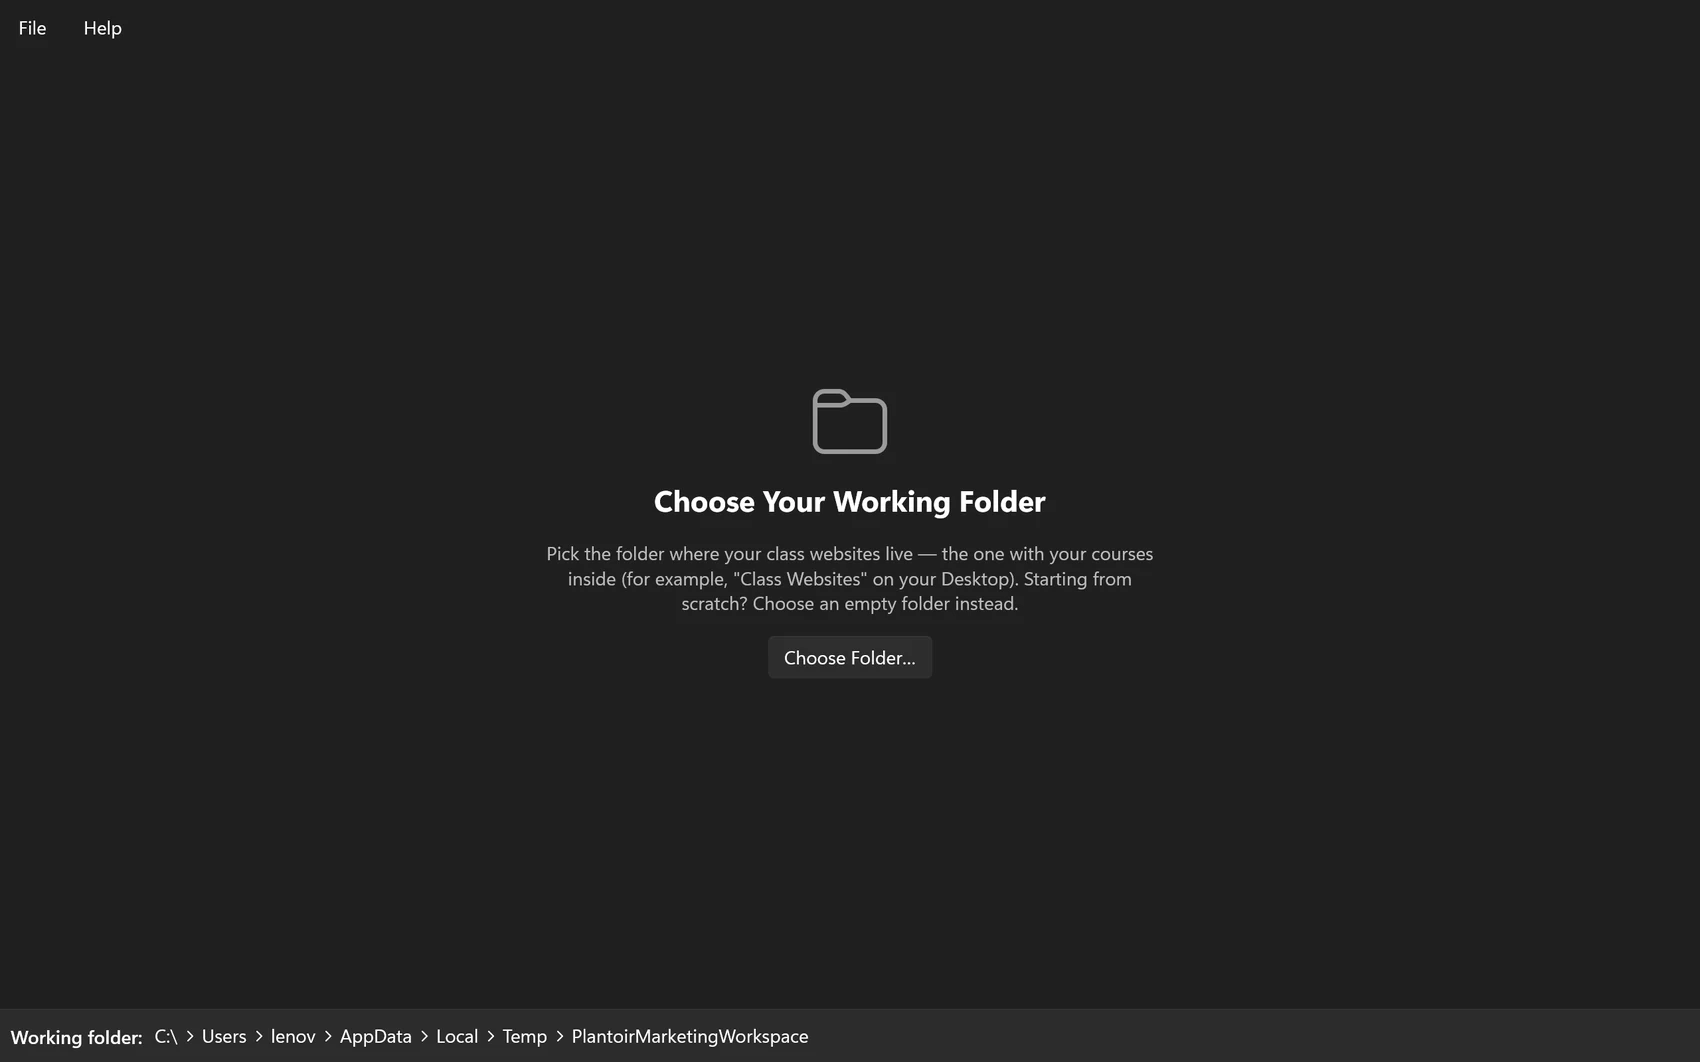
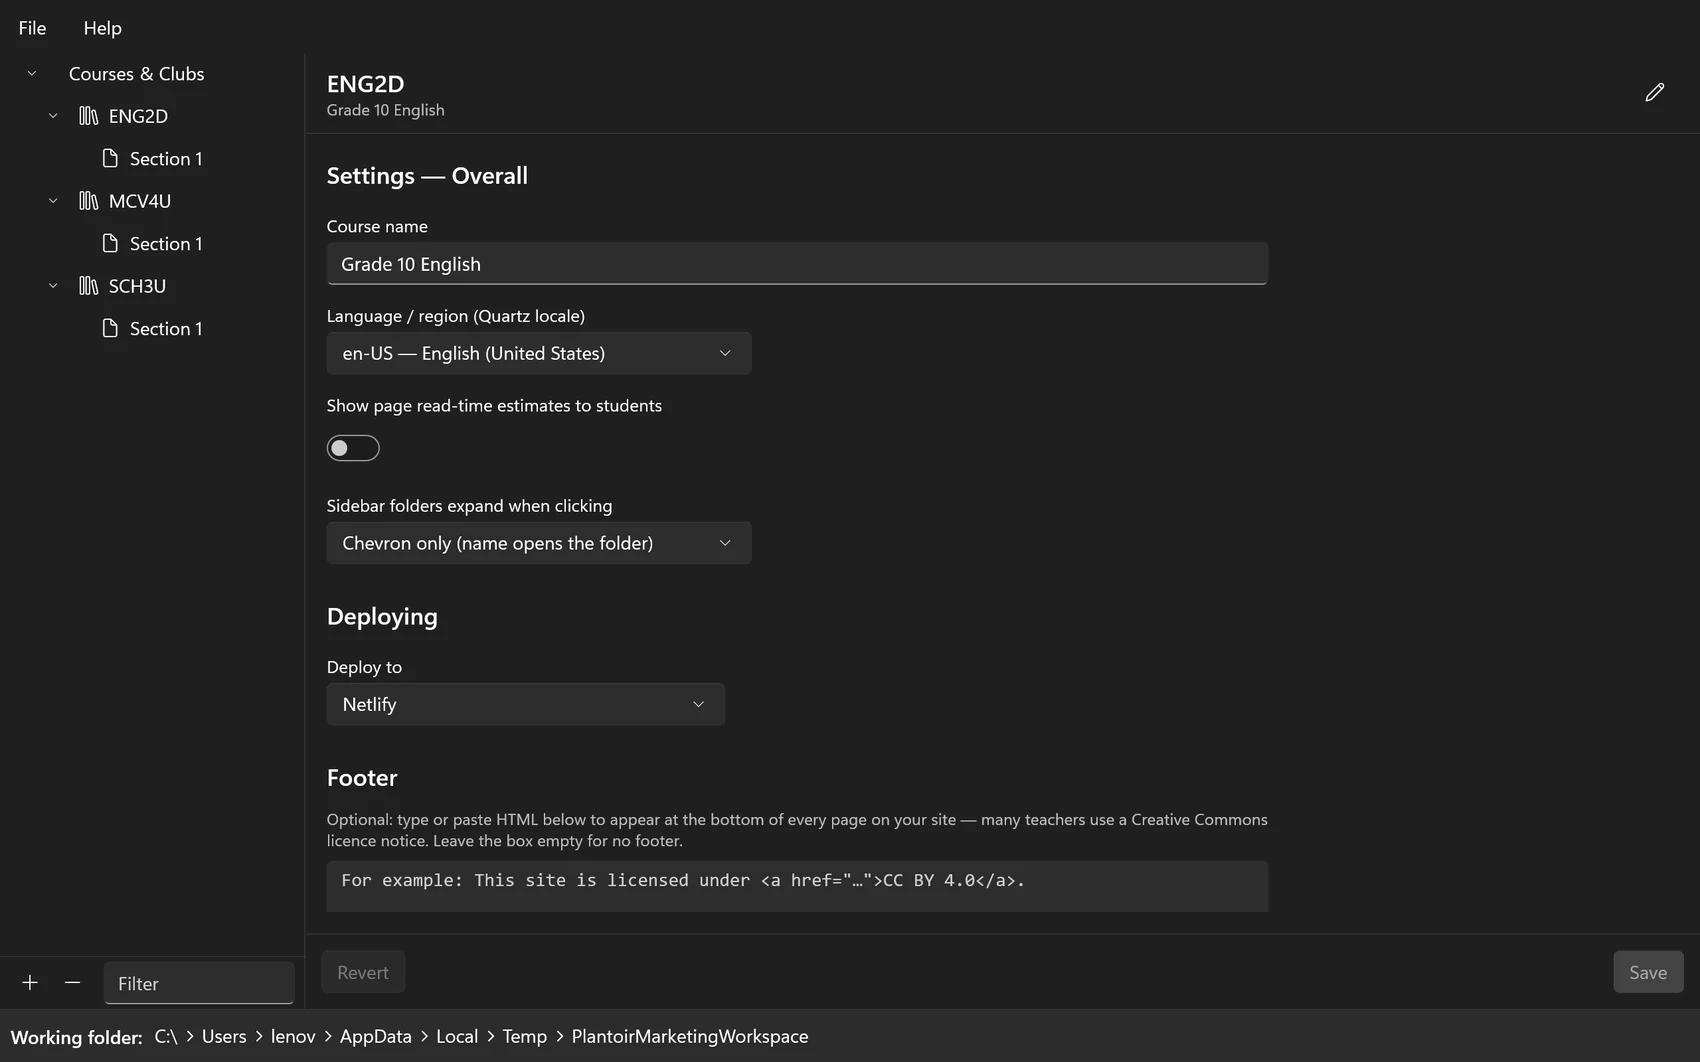
Fix demo workspace provisioning and dialog overlay in marketing screenshot capture
- Add preview.ps1 marker launcher and guaranteed course configuration fixtures in ProvisionDemoWorkspace
- Stage NewCourseDialog inside window visual tree with modal backdrop so RenderTargetBitmap captures the complete dialog
- Re-capture all 10 Windows PNGs and WebPs with populated courses, settings, dialogs, and previews

diff --git a/windows-app/Plantoir/Services/MarketingShotCapturer.cs b/windows-app/Plantoir/Services/MarketingShotCapturer.cs
@@ -105,41 +105,63 @@ public static class MarketingShotCapturer
         }
         Directory.CreateDirectory(workspacePath);
 
-        string repoRoot = Path.GetFullPath(Path.Combine(AppContext.BaseDirectory, "..", "..", "..", "..", "..", ".."));
-        string exampleContentDir = Path.Combine(repoRoot, "support", "example_content");
-        if (!Directory.Exists(exampleContentDir))
-            exampleContentDir = Path.Combine(Directory.GetCurrentDirectory(), "support", "example_content");
+        // Marker launchers required for WorkspaceState.Ready
+        File.WriteAllText(Path.Combine(workspacePath, "preview.ps1"), "# Plantoir Launcher\n");
+        File.WriteAllText(Path.Combine(workspacePath, "preview.sh"), "#!/usr/bin/env bash\n");
+        File.WriteAllText(Path.Combine(workspacePath, "setup.ps1"), "# Plantoir Setup\n");
+        File.WriteAllText(Path.Combine(workspacePath, "deploy.ps1"), "# Plantoir Deploy\n");
+
+        string[] possibleRoots = new[]
+        {
+            Path.GetFullPath(Path.Combine(AppContext.BaseDirectory, "..", "..", "..", "..", "..", "..")),
+            Path.GetFullPath(Path.Combine(AppContext.BaseDirectory, "..", "..", "..", "..", "..")),
+            Path.GetFullPath(Path.Combine(AppContext.BaseDirectory, "..", "..", "..", "..")),
+            Path.GetFullPath(Path.Combine(AppContext.BaseDirectory, "..", "..", "..")),
+            Path.GetFullPath(Path.Combine(AppContext.BaseDirectory, "..", "..")),
+            Directory.GetCurrentDirectory(),
+            @"C:\Users\lenov\Desktop\Developer\containerized-quartz-for-teachers"
+        };
+        string? foundRoot = possibleRoots.FirstOrDefault(r => Directory.Exists(Path.Combine(r, "support", "example_content")));
+        string exampleContentDir = foundRoot != null ? Path.Combine(foundRoot, "support", "example_content") : "";
 
         string coursesDir = Path.Combine(workspacePath, "courses");
         Directory.CreateDirectory(coursesDir);
 
-        foreach (string code in DemoCodes)
+        var demoMeta = new (string Code, string Name, string Scheme, string HFont, string BFont)[]
+        {
+            ("ENG2D", "Grade 10 English", "default", "serif", "sans-serif"),
+            ("MCV4U", "Grade 12 Calculus and Vectors", "forest", "sans-serif", "sans-serif"),
+            ("SCH3U", "Grade 11 Chemistry", "ocean", "sans-serif", "sans-serif")
+        };
+
+        foreach (var (code, defaultName, defaultScheme, defaultHFont, defaultBFont) in demoMeta)
         {
             string courseTarget = Path.Combine(coursesDir, code);
             Directory.CreateDirectory(courseTarget);
+            Directory.CreateDirectory(Path.Combine(courseTarget, "shared"));
+            Directory.CreateDirectory(Path.Combine(courseTarget, "section1"));
+            Directory.CreateDirectory(Path.Combine(courseTarget, "section2"));
 
-            string sourceDir = Path.Combine(exampleContentDir, code);
+            string sourceDir = !string.IsNullOrEmpty(exampleContentDir) ? Path.Combine(exampleContentDir, code) : "";
+            string courseName = defaultName;
+            string scheme = defaultScheme;
+            string hFont = defaultHFont;
+            string bFont = defaultBFont;
+
             if (Directory.Exists(sourceDir))
             {
                 string manifestPath = Path.Combine(sourceDir, "manifest.json");
                 if (File.Exists(manifestPath))
                 {
-                    var manifest = JObject.Parse(File.ReadAllText(manifestPath));
-                    var configObj = new JObject
+                    try
                     {
-                        ["course_name"] = manifest["course_name"]?.ToString() ?? code,
-                        ["course_code"] = code,
-                        ["section_count"] = 1,
-                        ["colour_scheme"] = manifest["colour_scheme"]?.ToString() ?? "default",
-                        ["header_font"] = manifest["header_font"]?.ToString() ?? "serif",
-                        ["body_font"] = manifest["body_font"]?.ToString() ?? "sans-serif",
-                        ["use_literal_grade_markers"] = false,
-                        ["use_lcs_terminology"] = false,
-                        ["deploy_target"] = "netlify",
-                        ["deploy_site_name"] = $"{code.ToLowerInvariant()}-gordon-2026-27"
-                    };
-                    var config = CourseConfiguration.FromDictionary(configObj);
-                    config.Write(Path.Combine(courseTarget, "course_config.json"));
+                        var manifest = JObject.Parse(File.ReadAllText(manifestPath));
+                        courseName = manifest["course_name"]?.ToString() ?? defaultName;
+                        scheme = manifest["colour_scheme"]?.ToString() ?? defaultScheme;
+                        hFont = manifest["header_font"]?.ToString() ?? defaultHFont;
+                        bFont = manifest["body_font"]?.ToString() ?? defaultBFont;
+                    }
+                    catch { }
                 }
 
                 string sharedSrc = Path.Combine(sourceDir, "shared");
@@ -148,8 +170,27 @@ public static class MarketingShotCapturer
 
                 string sectionSrc = Path.Combine(sourceDir, "per_section");
                 if (Directory.Exists(sectionSrc))
+                {
                     CopyDirectory(sectionSrc, Path.Combine(courseTarget, "section1"));
+                    CopyDirectory(sectionSrc, Path.Combine(courseTarget, "section2"));
+                }
             }
+
+            var configObj = new JObject
+            {
+                ["course_name"] = courseName,
+                ["course_code"] = code,
+                ["section_count"] = 2,
+                ["colour_scheme"] = scheme,
+                ["header_font"] = hFont,
+                ["body_font"] = bFont,
+                ["use_literal_grade_markers"] = false,
+                ["use_lcs_terminology"] = false,
+                ["deploy_target"] = "netlify",
+                ["deploy_site_name"] = $"{code.ToLowerInvariant()}-gordon-2026-27"
+            };
+            var config = CourseConfiguration.FromDictionary(configObj);
+            config.Write(Path.Combine(courseTarget, "course_config.json"));
         }
     }
 
@@ -190,19 +231,90 @@ public static class MarketingShotCapturer
         ConfigureWindow(window, 1280, 800, theme);
         window.Activate();
 
-        await Task.Delay(500);
+        await Task.Delay(600);
         window.Workspace.Selection = new SidebarSelection.CourseItem("ENG2D");
         await Task.Delay(400);
 
-        // Stage dialog for SBI3U matching macOS marketing test
-        var dialog = new NewCourseDialog(window) { XamlRoot = window.Content.XamlRoot };
+        var dialog = new NewCourseDialog(window);
         dialog.RequestedTheme = theme;
         dialog.StageForCapture("SBI3U", "1, 2");
-        _ = dialog.ShowAsync();
-        await Task.Delay(800);
 
+        var isDark = theme == ElementTheme.Dark;
+        var overlay = new Grid
+        {
+            Background = new SolidColorBrush(Windows.UI.Color.FromArgb(isDark ? (byte)140 : (byte)90, 0, 0, 0)),
+            HorizontalAlignment = HorizontalAlignment.Stretch,
+            VerticalAlignment = VerticalAlignment.Stretch
+        };
+
+        var dialogCard = new Border
+        {
+            Width = 540,
+            MaxHeight = 680,
+            Background = (Brush)Application.Current.Resources["SolidBackgroundFillColorBaseBrush"],
+            BorderBrush = (Brush)Application.Current.Resources["SurfaceStrokeColorDefaultBrush"],
+            BorderThickness = new Thickness(1),
+            CornerRadius = new CornerRadius(8),
+            Padding = new Thickness(24, 20, 24, 20),
+            HorizontalAlignment = HorizontalAlignment.Center,
+            VerticalAlignment = VerticalAlignment.Center
+        };
+
+        var dialogLayout = new Grid();
+        dialogLayout.RowDefinitions.Add(new RowDefinition { Height = GridLength.Auto });
+        dialogLayout.RowDefinitions.Add(new RowDefinition { Height = new GridLength(1, GridUnitType.Star) });
+        dialogLayout.RowDefinitions.Add(new RowDefinition { Height = GridLength.Auto });
+
+        var titleBlock = new TextBlock
+        {
+            Text = "New Course",
+            FontSize = 20,
+            FontWeight = FontWeights.SemiBold,
+            Margin = new Thickness(0, 0, 0, 16)
+        };
+        Grid.SetRow(titleBlock, 0);
+        dialogLayout.Children.Add(titleBlock);
+
+        if (dialog.Content is FrameworkElement formContent)
+        {
+            dialog.Content = null;
+            Grid.SetRow(formContent, 1);
+            dialogLayout.Children.Add(formContent);
+        }
+
+        var buttonRow = new StackPanel
+        {
+            Orientation = Orientation.Horizontal,
+            HorizontalAlignment = HorizontalAlignment.Right,
+            Spacing = 8,
+            Margin = new Thickness(0, 16, 0, 0)
+        };
+        var createBtn = new Button
+        {
+            Content = "Create",
+            Style = (Style)Application.Current.Resources["AccentButtonStyle"],
+            MinWidth = 80
+        };
+        var cancelBtn = new Button
+        {
+            Content = "Cancel",
+            MinWidth = 80
+        };
+        buttonRow.Children.Add(createBtn);
+        buttonRow.Children.Add(cancelBtn);
+        Grid.SetRow(buttonRow, 2);
+        dialogLayout.Children.Add(buttonRow);
+
+        dialogCard.Child = dialogLayout;
+        overlay.Children.Add(dialogCard);
+
+        if (window.Content is Grid rootGrid)
+        {
+            rootGrid.Children.Add(overlay);
+        }
+
+        await Task.Delay(800);
         await SaveWindowContentToPngAsync(window, outputPath);
-        dialog.Hide();
         window.Close();
     }
 
